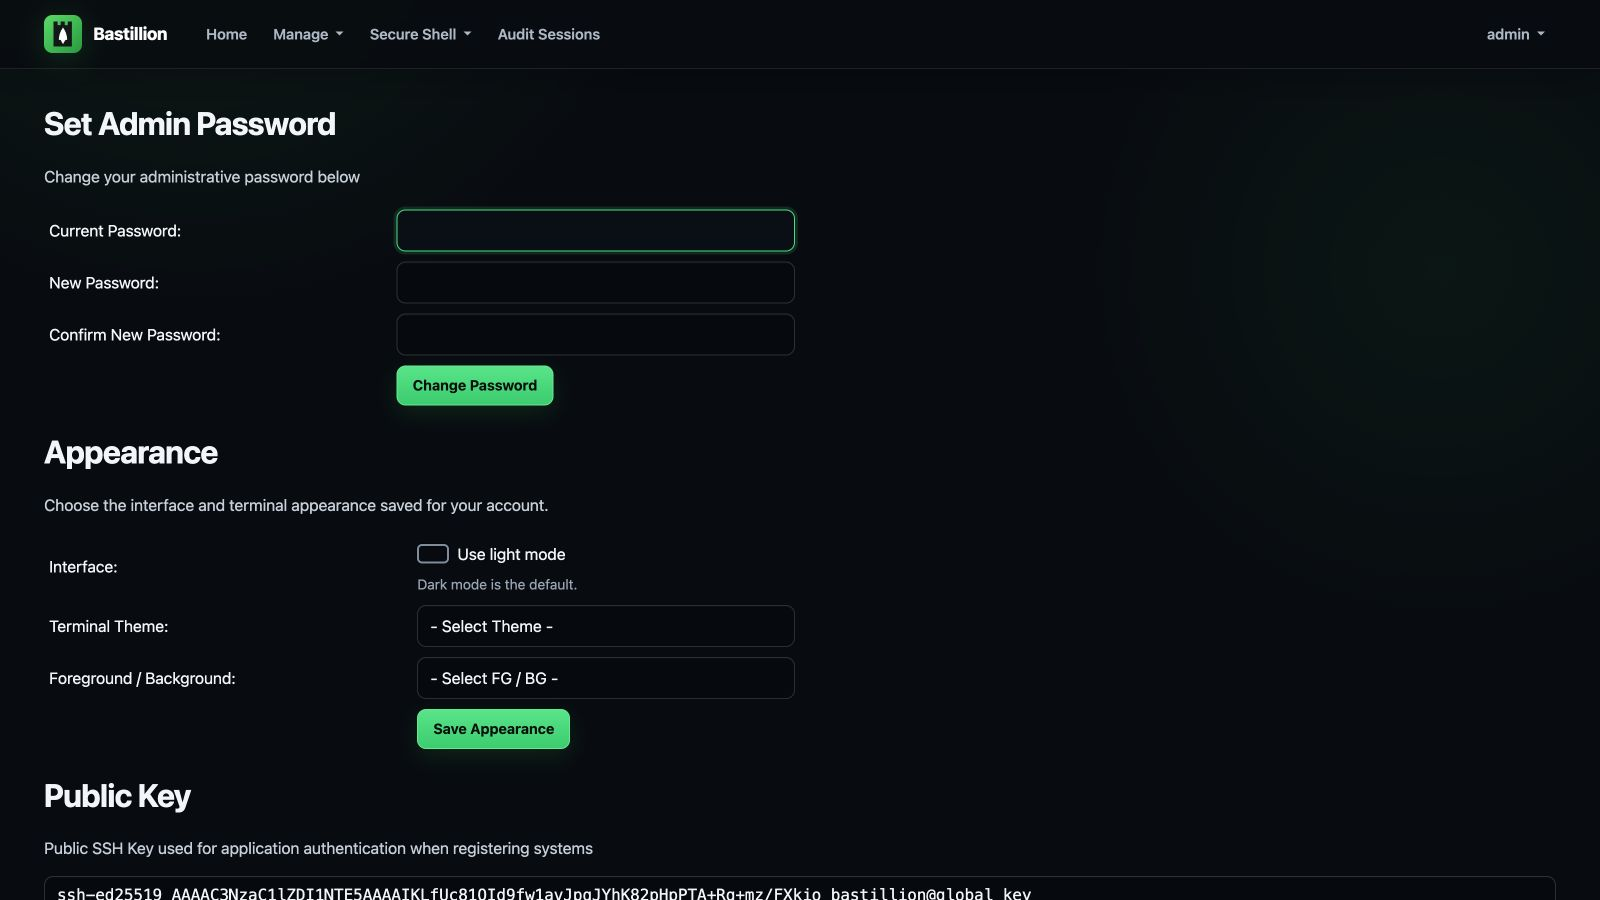
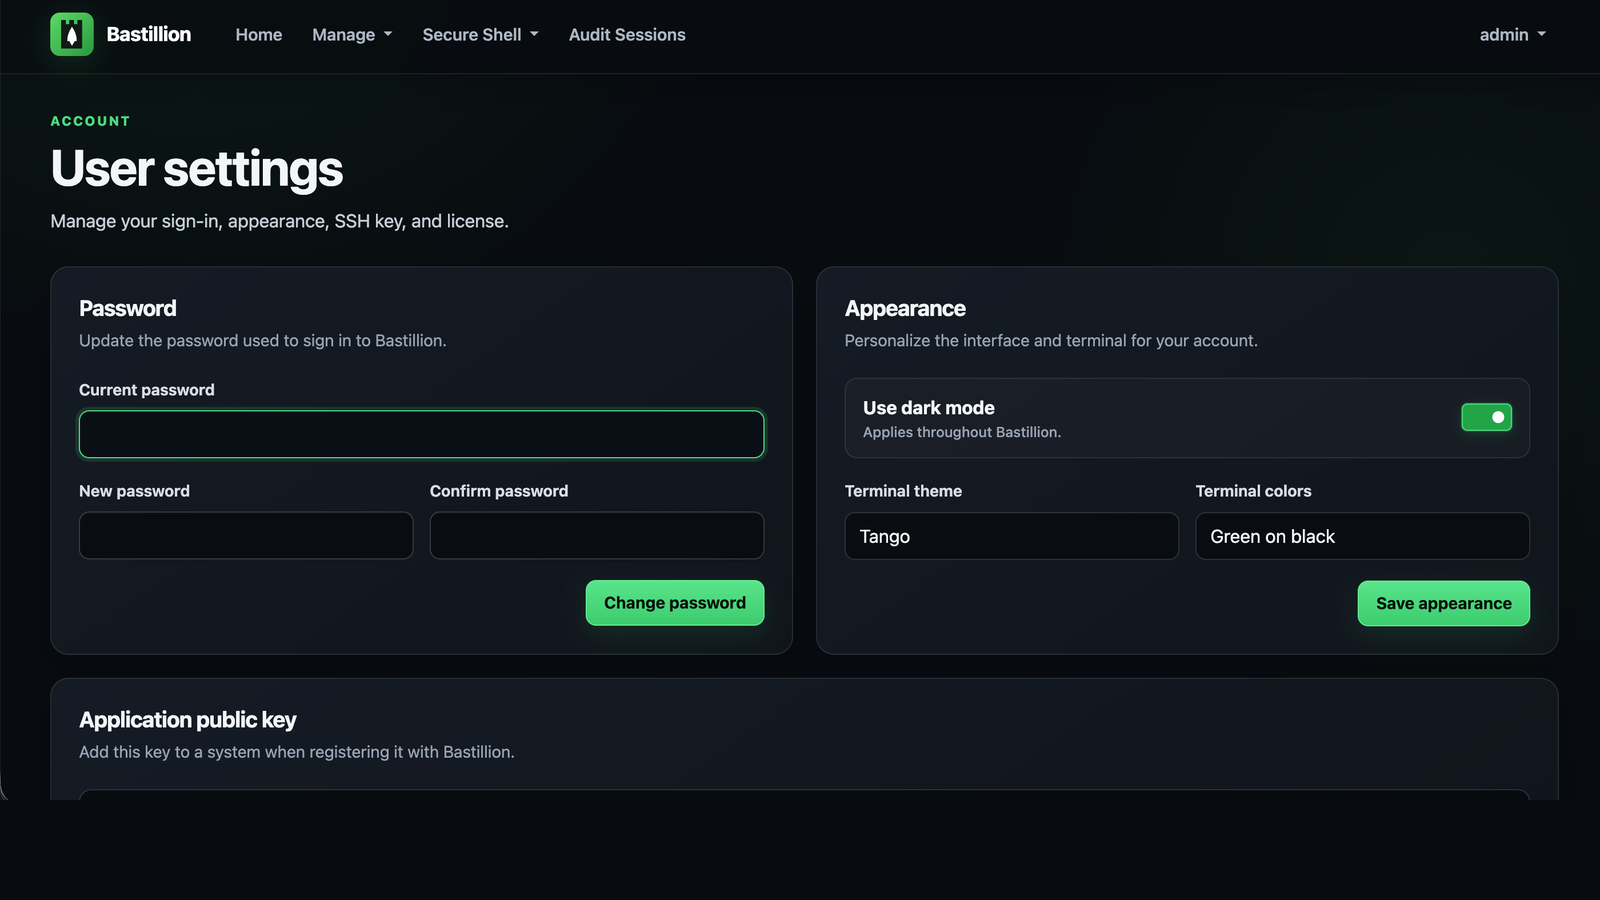
Fix upload dialog and navigation menus

diff --git a/src/main/webapp/_res/css/bastillion.css b/src/main/webapp/_res/css/bastillion.css
@@ -461,7 +461,68 @@ table.floatThead-table {
 
 /* pages rendered inside an iframe (upload/push) don't need room for the fixed navbar */
 .iframe-body {
-    padding: 10px;
+    width: 100%;
+    min-height: 100%;
+    padding: 20px;
+    overflow-x: hidden;
+    background: var(--bastillion-surface);
+}
+
+.upload-push-dialog {
+    width: min(1100px, calc(100vw - 32px));
+    max-width: 1100px;
+    margin: 16px auto;
+}
+
+.upload-push-dialog .modal-content {
+    width: 100%;
+    max-height: calc(100vh - 32px);
+    overflow: hidden;
+}
+
+.upload-push-dialog .modal-header {
+    flex: 0 0 auto;
+}
+
+.upload-push-modal-body {
+    min-width: 0;
+    padding: 0;
+    overflow: hidden;
+}
+
+.upload-push-frame {
+    display: block;
+    width: 100%;
+    height: min(62vh, 540px);
+    min-height: 340px;
+    background: var(--bastillion-surface);
+    border: 0;
+}
+
+.upload-form,
+.upload-field {
+    display: grid;
+    gap: 8px;
+}
+
+.upload-form {
+    width: 100%;
+    gap: 18px;
+}
+
+.upload-field .error:empty {
+    display: none;
+}
+
+.upload-actions {
+    display: flex;
+    justify-content: flex-end;
+}
+
+.uploadScrollWrapper {
+    width: 100%;
+    max-width: 100%;
+    overflow: auto;
 }
 
 .settings-page {
@@ -895,8 +956,7 @@ code, pre {
     box-shadow: 0 18px 45px rgba(0, 0, 0, .45);
 }
 
-.dropdown-item,
-.dropdown-item > a {
+.dropdown-item {
     display: block;
     padding: 8px 10px;
     border-radius: 7px;
@@ -905,10 +965,14 @@ code, pre {
 }
 
 .dropdown-item:hover,
-.dropdown-item:focus,
-.dropdown-item:hover > a {
+.dropdown-item:focus {
     color: #fff;
     background: rgba(74, 222, 128, .1);
+}
+
+.dropdown-menu .dropdown-item:focus-visible {
+    outline: 0;
+    box-shadow: inset 0 0 0 1px rgba(74, 222, 128, .45);
 }
 
 .card,
@@ -937,6 +1001,16 @@ code, pre {
 
 .modal-title {
     font-weight: 700;
+}
+
+[data-bs-theme="dark"] .modal-header .btn-close {
+    filter: invert(1) grayscale(100%) brightness(200%);
+    opacity: .78;
+}
+
+[data-bs-theme="dark"] .modal-header .btn-close:hover,
+[data-bs-theme="dark"] .modal-header .btn-close:focus {
+    opacity: 1;
 }
 
 .login-wrap {
@@ -1404,14 +1478,12 @@ a:focus-visible {
     box-shadow: 0 18px 45px rgba(26, 55, 39, .16);
 }
 
-[data-bs-theme="light"] .dropdown-item,
-[data-bs-theme="light"] .dropdown-item > a {
+[data-bs-theme="light"] .dropdown-item {
     color: #34453b;
 }
 
 [data-bs-theme="light"] .dropdown-item:hover,
-[data-bs-theme="light"] .dropdown-item:focus,
-[data-bs-theme="light"] .dropdown-item:hover > a {
+[data-bs-theme="light"] .dropdown-item:focus {
     color: #102819;
     background: rgba(22, 131, 59, .09);
 }
@@ -1640,6 +1712,28 @@ a:focus-visible {
 
     .settings-danger-content {
         padding: 0 19px 19px;
+    }
+
+    .upload-push-dialog {
+        width: calc(100vw - 16px);
+        margin: 8px auto;
+    }
+
+    .upload-push-dialog .modal-content {
+        max-height: calc(100vh - 16px);
+    }
+
+    .upload-push-dialog .modal-header {
+        padding: 16px 18px;
+    }
+
+    .upload-push-frame {
+        height: min(68vh, 500px);
+        min-height: 300px;
+    }
+
+    .iframe-body {
+        padding: 14px;
     }
 }
 

diff --git a/src/main/webapp/admin/secure_shell.html b/src/main/webapp/admin/secure_shell.html
@@ -532,17 +532,17 @@
                                 class="caret"></b></a>
                             <ul
                                     class="dropdown-menu">
-                                <li class="dropdown-item"><a id="upload_push" href="#">Upload &amp; Push</a>
+                                <li><a id="upload_push" class="dropdown-item" href="#">Upload &amp; Push</a>
                                 </li>
-                                <li class="dropdown-item"><a id="connect_to_host" data-bs-toggle="modal"
+                                <li><a id="connect_to_host" class="dropdown-item" data-bs-toggle="modal"
                                                              data-bs-target="#connect_to_host_dialog"
                                                              href="#">Connect to Host</a>
                                 </li>
-                                <li class="dropdown-item"><a id="dup_session" href="#">Duplicate Session</a>
+                                <li><a id="dup_session" class="dropdown-item" href="#">Duplicate Session</a>
                                 </li>
-                                <li class="dropdown-item"><a id="reset_size" href="#">Reset Size</a>
+                                <li><a id="reset_size" class="dropdown-item" href="#">Reset Size</a>
                                 </li>
-                                <li class="dropdown-item"><a id="disconnect" href="#">Disconnect</a>
+                                <li><a id="disconnect" class="dropdown-item" href="#">Disconnect</a>
                                 </li>
                             </ul>
                         </li>
@@ -696,14 +696,14 @@
     </div>
 </div>
 <div id="upload_push_dialog" class="modal fade">
-    <div class="modal-dialog">
-        <div class="modal-content" style="width:700px">
+    <div class="modal-dialog modal-dialog-centered upload-push-dialog">
+        <div class="modal-content">
             <div class="modal-header">
                 <h5 class="modal-title">Upload &amp; Push</h5>
                 <button type="button" class="btn-close" data-bs-dismiss="modal" aria-label="Close"></button>
             </div>
-            <div class="modal-body">
-                <iframe id="upload_push_frame" width="675px" height="300px" style="border: none;"></iframe>
+            <div class="modal-body upload-push-modal-body">
+                <iframe id="upload_push_frame" class="upload-push-frame" title="Upload and push files"></iframe>
             </div>
         </div>
     </div>

diff --git a/src/main/webapp/admin/upload.html b/src/main/webapp/admin/upload.html
@@ -15,33 +15,22 @@
 <body class="iframe-body">
 <template th:if="${idList!= null && !idList.empty}" th:remove="tag">
     <div th:replace="~{_res/inc/errors}"></div>
-    <form id="upload" th:action="@{/admin/uploadSubmit.ktrl} + '?_csrf=' + ${session._csrf}"
+    <form id="upload" class="upload-form" th:action="@{/admin/uploadSubmit.ktrl} + '?_csrf=' + ${session._csrf}"
           method="post" enctype="multipart/form-data">
-        <table>
-            <tr>
-                <td>File:
-                </td>
-                <td>
-                    <input name="upload" type="file" required="required" class="form-control" title="File"> <span class="error"
-                                                                                             th:text="${fieldErrors.get('upload')}"></span>
-                </td>
-            </tr>
-            <tr>
-                <td>Destination Directory:
-                </td>
-                <td>
-                    <input name="pushDir" type="text" class="form-control" title="Destination Directory" required="required"
-                           th:value="${pushDir}"> <span class="error"
-                                                        th:text="${fieldErrors.get('pushDir')}"></span>
-                </td>
-            </tr>
-            <tr>
-                <td>&#xA0;</td>
-                <td>
-                    <div id="upload_btn" class="btn btn-secondary upload">Upload</div>
-                </td>
-            </tr>
-        </table>
+        <div class="upload-field">
+            <label class="form-label" for="upload-file">File</label>
+            <input id="upload-file" name="upload" type="file" required class="form-control">
+            <span class="error" th:text="${fieldErrors.get('upload')}"></span>
+        </div>
+        <div class="upload-field">
+            <label class="form-label" for="push-directory">Destination directory</label>
+            <input id="push-directory" name="pushDir" type="text" class="form-control" required
+                   th:value="${pushDir}">
+            <span class="error" th:text="${fieldErrors.get('pushDir')}"></span>
+        </div>
+        <div class="upload-actions">
+            <div id="upload_btn" class="btn btn-secondary upload">Upload</div>
+        </div>
     </form>
 </template>
 <p class="error" th:if="${idList == null || idList.empty}">No systems associated with upload</p>

diff --git a/src/main/webapp/_res/inc/navigation.html b/src/main/webapp/_res/inc/navigation.html
@@ -66,9 +66,9 @@
 
                 </a>
                     <ul class="dropdown-menu">
-                        <li class="dropdown-item"><a th:href="'../admin/userSettings.ktrl?_csrf=' + ${session._csrf}">Settings</a>
+                        <li><a class="dropdown-item" th:href="'../admin/userSettings.ktrl?_csrf=' + ${session._csrf}">Settings</a>
                         </li>
-                        <li class="dropdown-item"><a href="../logout.ktrl">Logout</a>
+                        <li><a class="dropdown-item" href="../logout.ktrl">Logout</a>
                         </li>
                     </ul>
                 </li>
